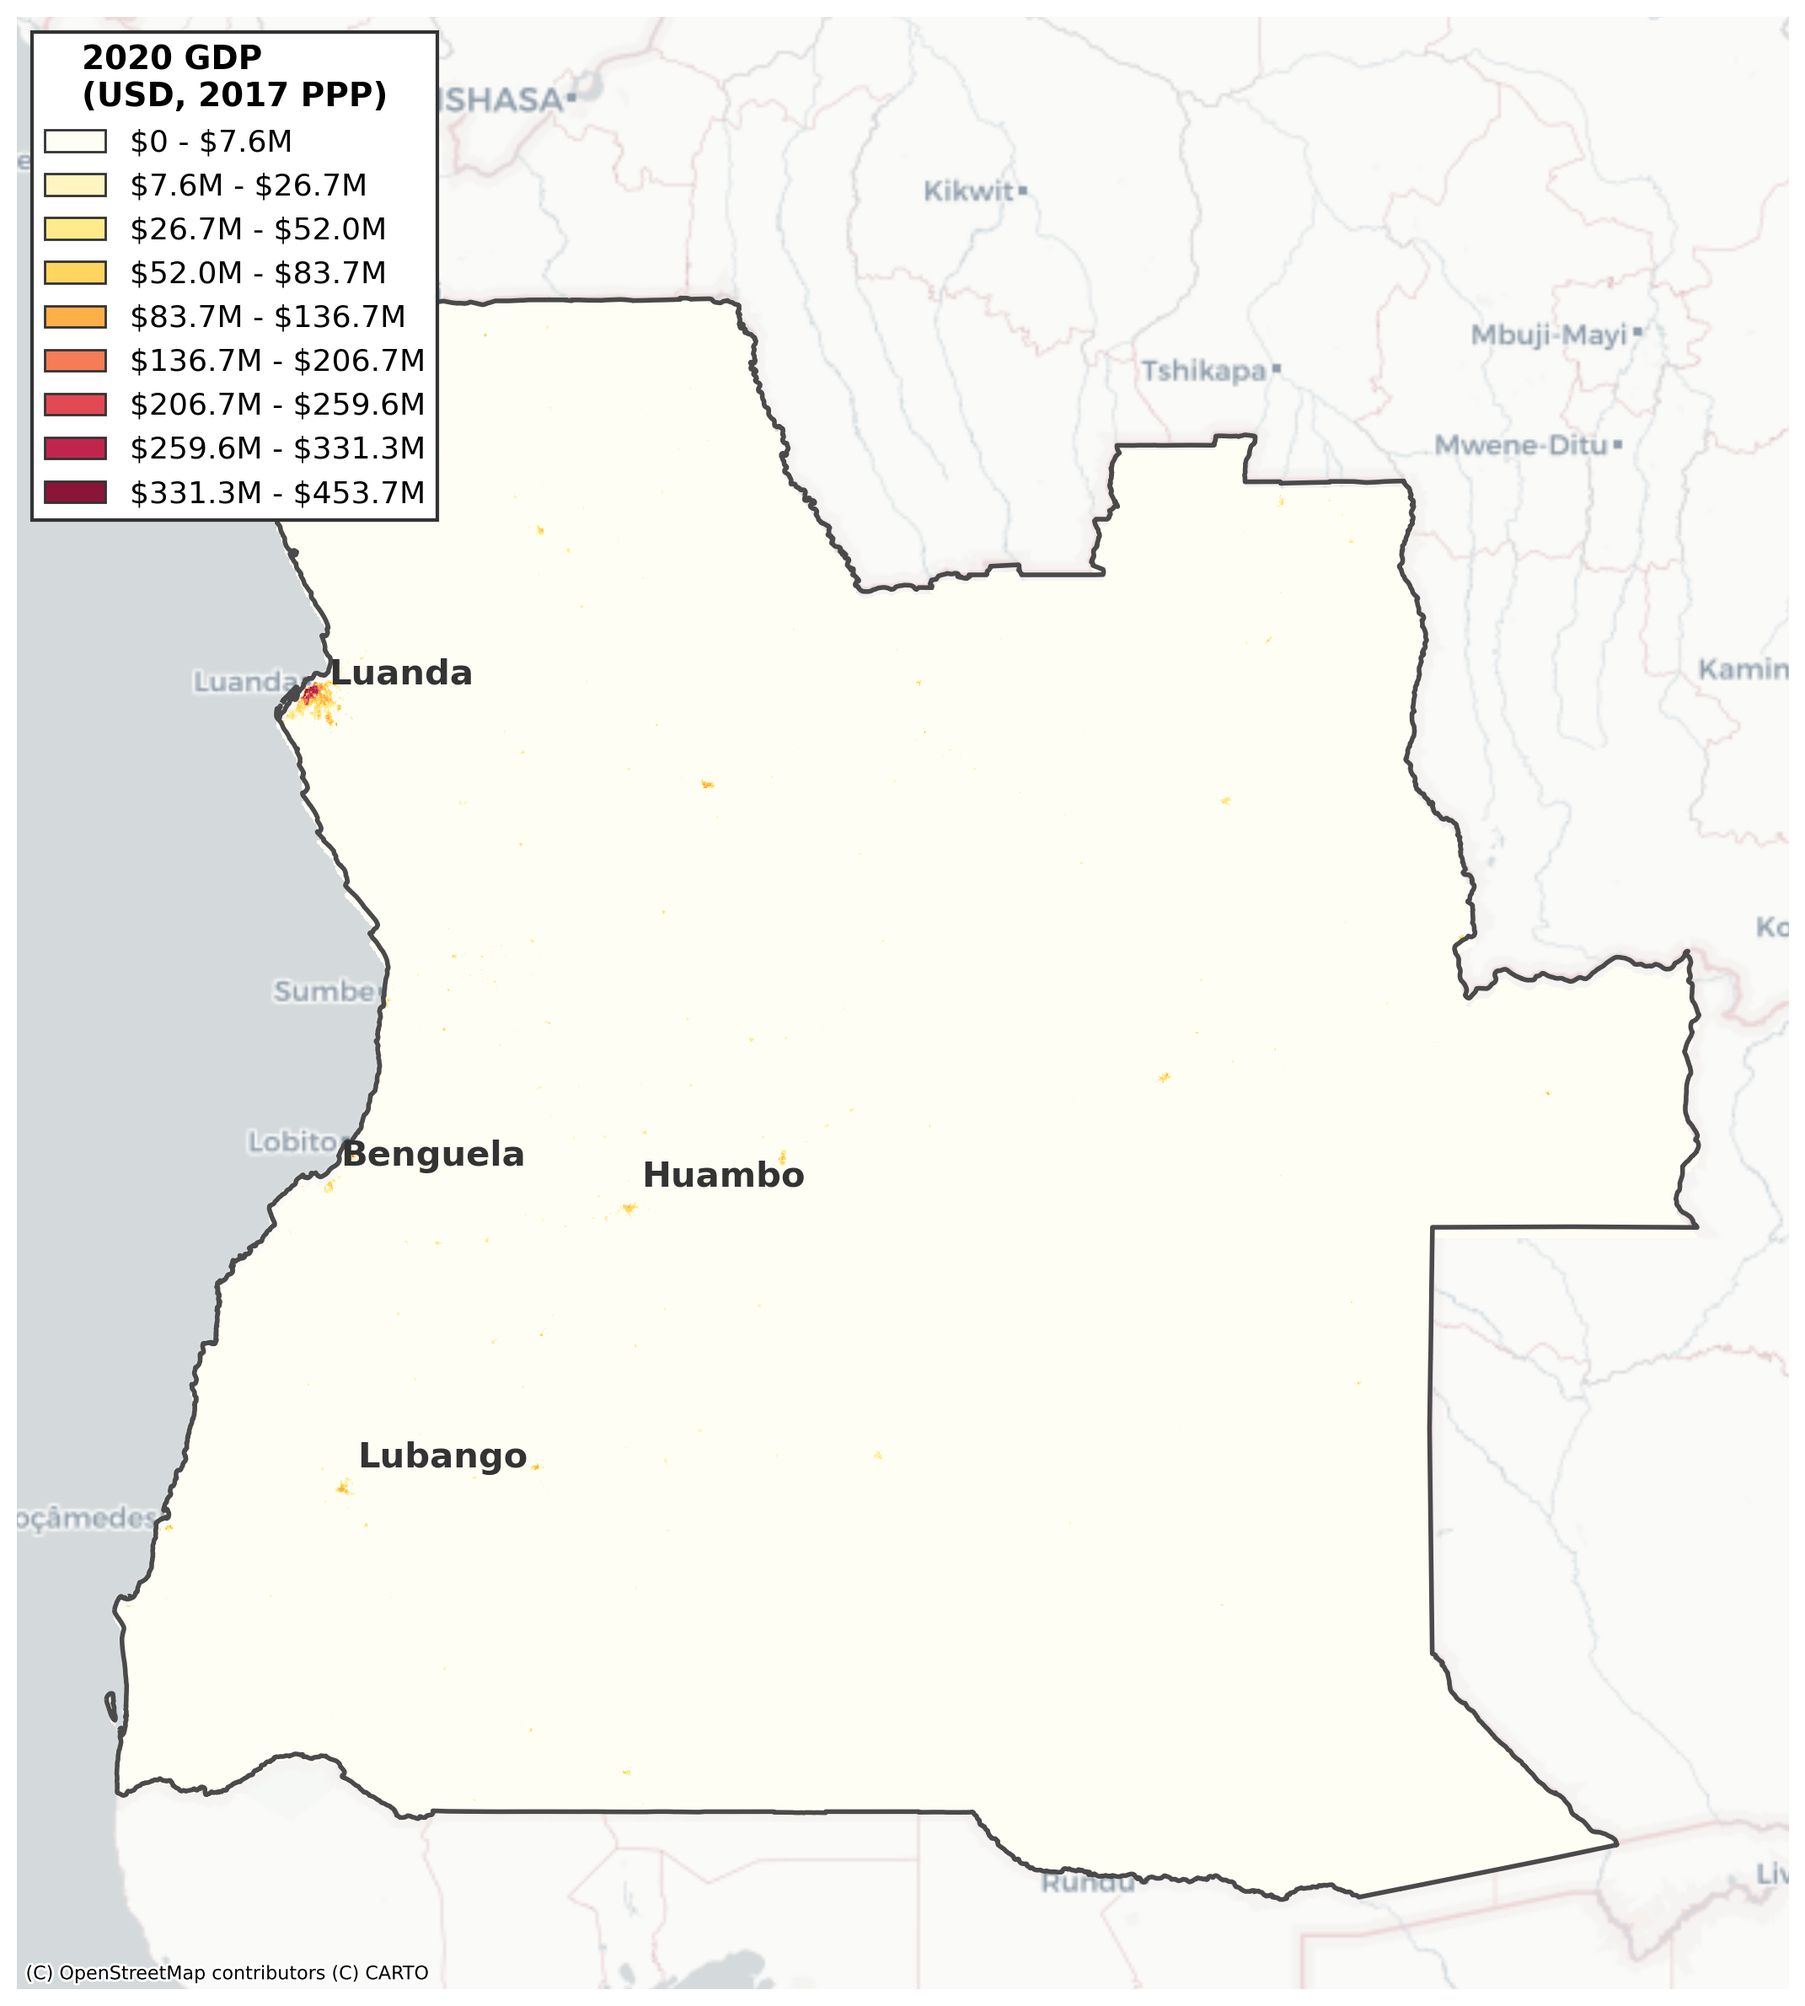
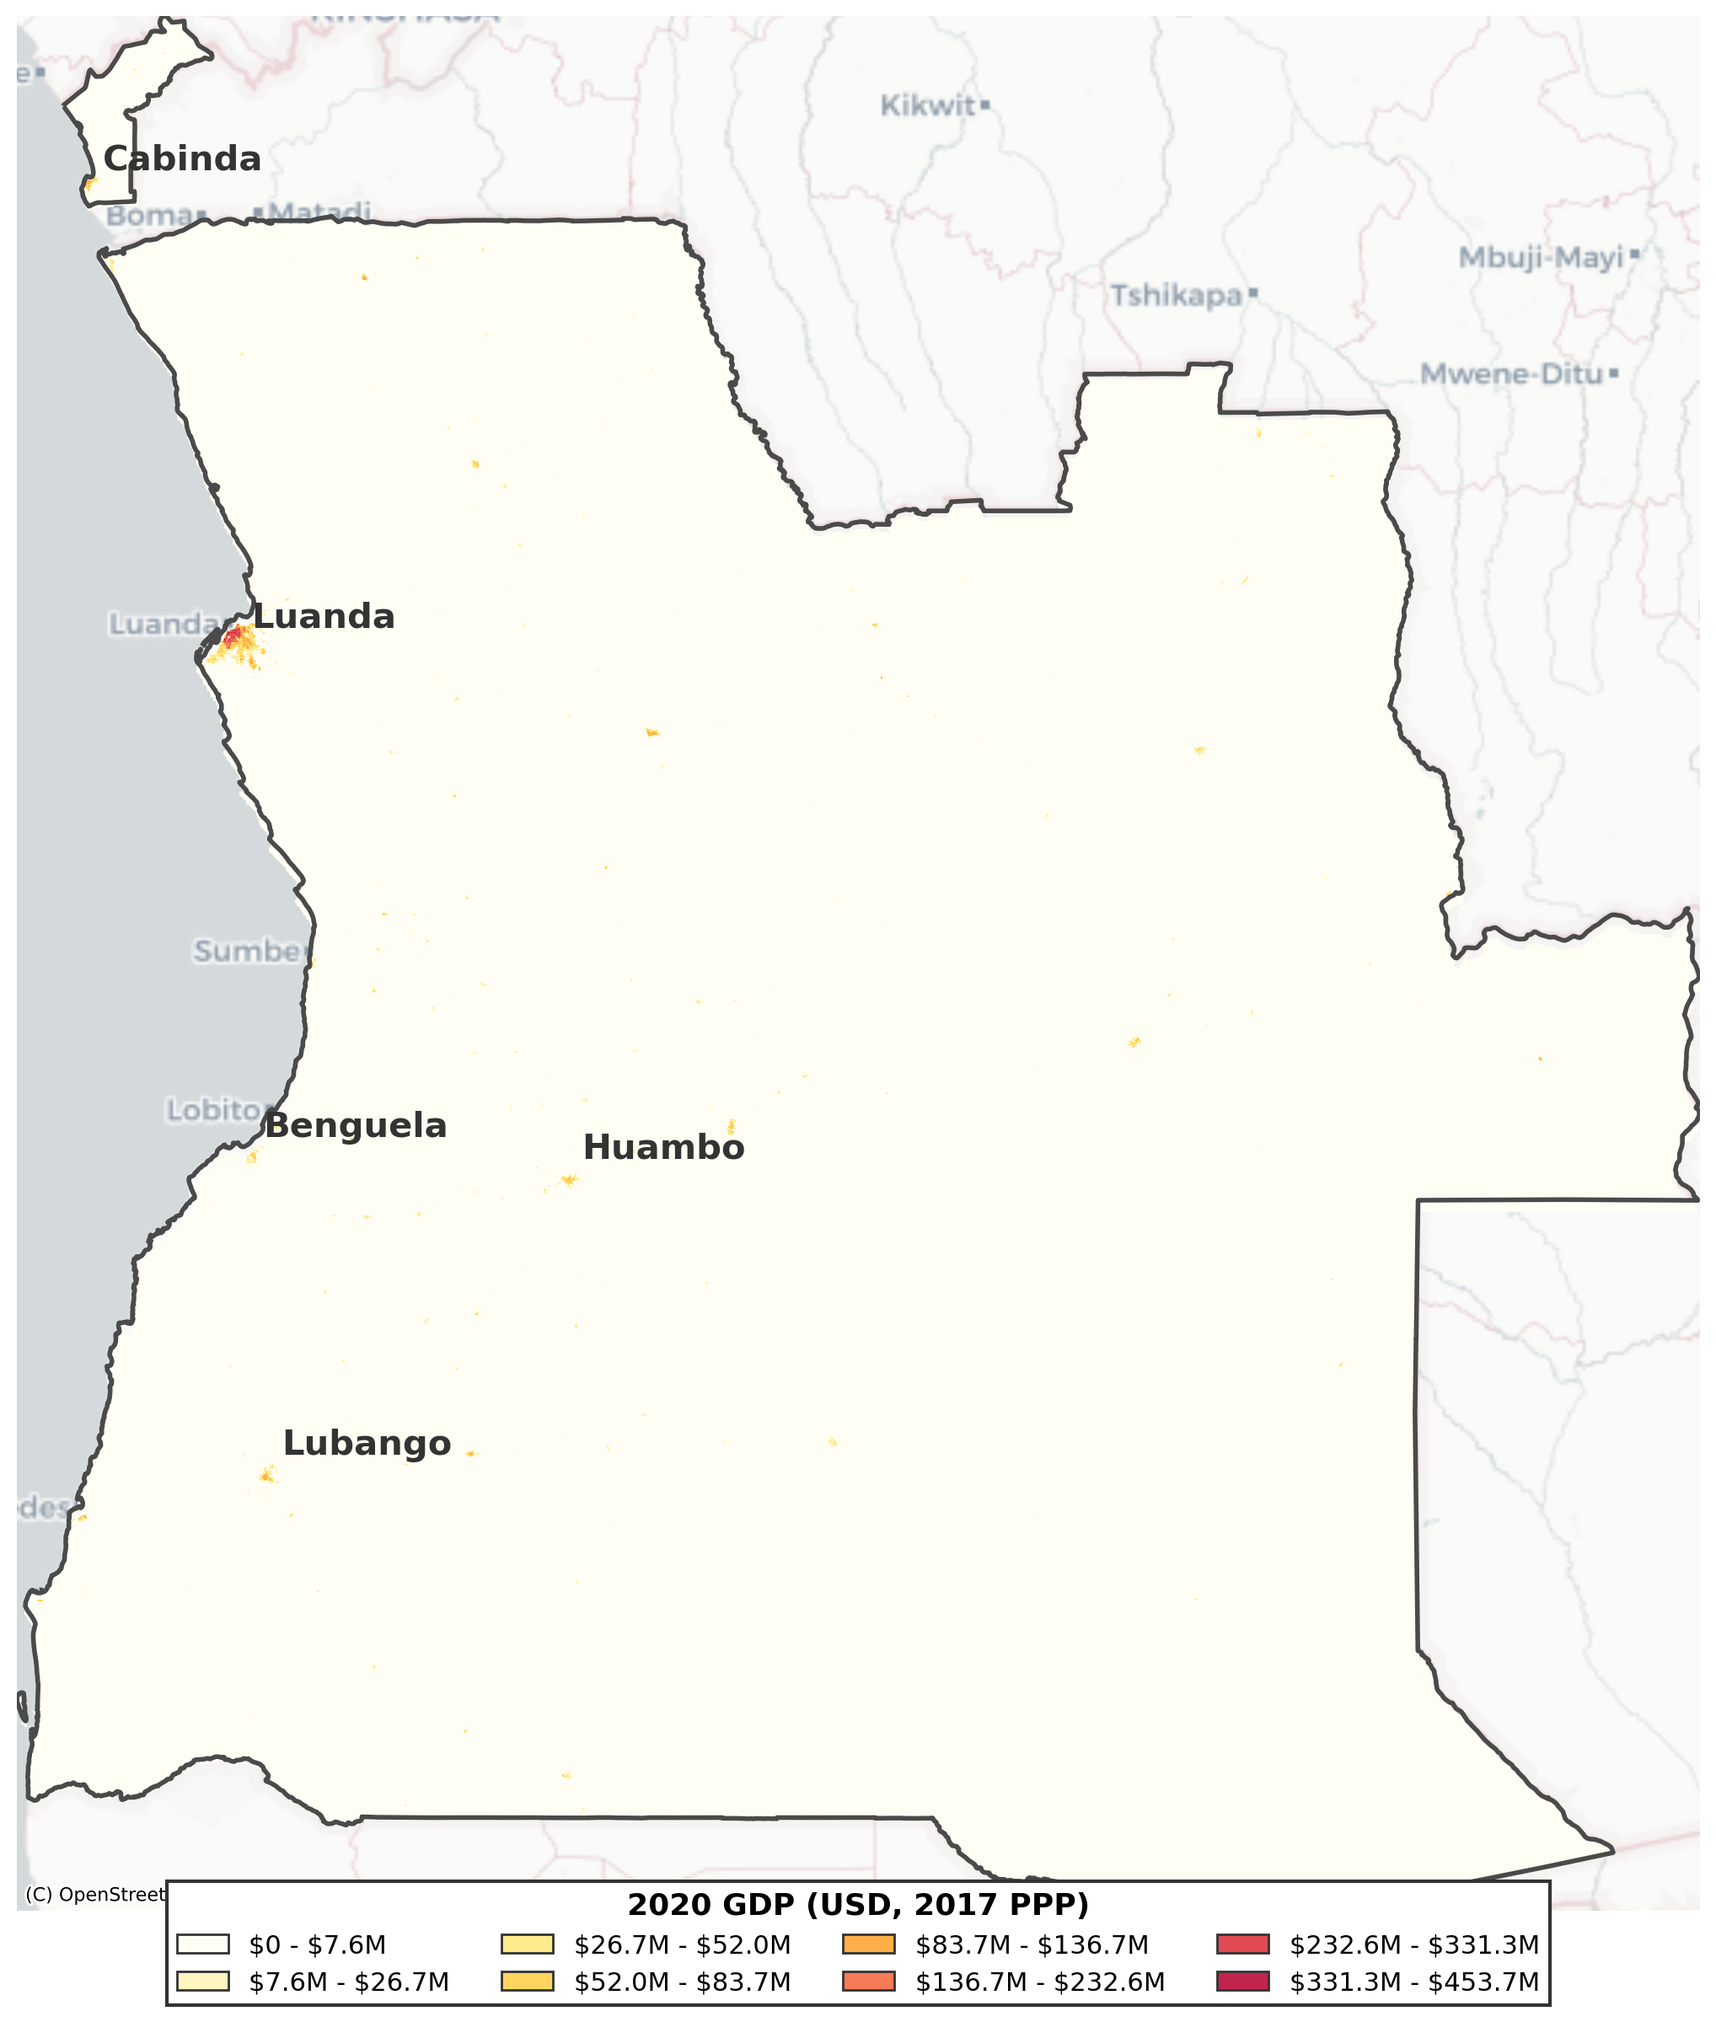
Update GDP and population raster images and improve legends
Added new 2020 GDP and population raster images for multiple African countries. Improved legend placement and formatting in visualization scripts, reduced number of bins from 9 to 8, and removed the expand_bounds function. Updated indicator note in urbanization_callbacks.py to clarify legend classification and interpretation guidance.

diff --git a/scripts/Process_Kumu_GDP.py b/scripts/Process_Kumu_GDP.py
@@ -197,26 +197,7 @@ def clip_raster_to_polygon(raster, polygon_geom, band_index):
     return band_data, out_transform
 
 
-def expand_bounds(minx, miny, maxx, maxy, buffer_pct=0.05):
-    """
-    Expand geographic bounds by a percentage buffer
-    
-    Args:
-        minx, miny, maxx, maxy: Original bounds
-        buffer_pct: Percentage to expand (default 0.05 = 5%)
-        
-    Returns:
-        Tuple of expanded (minx, miny, maxx, maxy)
-    """
-    width = maxx - minx
-    height = maxy - miny
-    buffer = max(width, height) * buffer_pct
-    return (
-        minx - buffer,
-        miny - buffer,
-        maxx + buffer,
-        maxy + buffer
-    )
+
 
 
 def add_basemap_to_axis(ax, crs='EPSG:3857', source=None, alpha=1.0, zoom='auto'):
@@ -279,8 +260,8 @@ def add_city_labels(ax, cities_gdf, name_column='agglosName', fontsize=15,
 
 
 def create_categorical_legend(ax, breaks, colors, value_formatter=None, 
-                             title='Value Range', loc='upper left', 
-                             fontsize=13, title_fontsize=14):
+                             title='Value Range', loc='lower center', 
+                             fontsize=13, title_fontsize=14, ncol=3, bbox_to_anchor=(0.5, -0.15)):
     """
     Create categorical legend with value ranges
     
@@ -290,9 +271,11 @@ def create_categorical_legend(ax, breaks, colors, value_formatter=None,
         colors: List of colors for each bin
         value_formatter: Function to format values (optional)
         title: Legend title
-        loc: Legend location (default 'upper left')
+        loc: Legend location (default 'lower center')
         fontsize: Font size for labels (default 13)
         title_fontsize: Font size for title (default 14)
+        ncol: Number of columns (default 3)
+        bbox_to_anchor: Position anchor for legend (default (0.5, -0.15))
     """
     from matplotlib.patches import Patch
     
@@ -329,7 +312,8 @@ def create_categorical_legend(ax, breaks, colors, value_formatter=None,
     
     legend = ax.legend(handles=legend_elements, loc=loc, fontsize=fontsize,
              title=title, title_fontproperties={'weight': 'bold', 'size': title_fontsize},
-             framealpha=1.0, facecolor='white', edgecolor='#333333', fancybox=False, shadow=False)
+             framealpha=1.0, facecolor='white', edgecolor='#333333', fancybox=False, shadow=False,
+             ncol=ncol, bbox_to_anchor=bbox_to_anchor, borderaxespad=0)
     
     # Explicitly set the legend frame to be fully opaque with no transparency
     frame = legend.get_frame()
@@ -423,7 +407,7 @@ def create_gdp_visualization(data, transform, country_geom, country_name, iso3, 
         return
     
     # Configuration
-    no_bins = 9
+    no_bins = 8
     
     # Get data statistics for all non-NaN values (including zeros)
     valid_data_mask = ~np.isnan(data)
@@ -448,9 +432,6 @@ def create_gdp_visualization(data, transform, country_geom, country_name, iso3, 
     geom_web = geom_gdf.to_crs(3857)
     minx, miny, maxx, maxy = geom_web.total_bounds
     
-    # Expand bounds to show neighboring countries
-    minx, miny, maxx, maxy = expand_bounds(minx, miny, maxx, maxy, buffer_pct=0.05)
-    
     # Set axis limits first (required for contextily)
     ax.set_xlim(minx, maxx)
     ax.set_ylim(miny, maxy)
@@ -461,7 +442,7 @@ def create_gdp_visualization(data, transform, country_geom, country_name, iso3, 
     
     # Create custom colormap for n_bins (discrete classification)
     colors = ['#FFFEF5', '#FFF5C0', '#FFEB8B', '#FFD560', '#FFAF48', 
-              '#F57C56', '#E24952', '#C1254E', '#8B1538']  # 9 colors for up to 9 bins
+              '#F57C56', '#E24952', '#C1254E', '#8B1538']  # 9 colors for up to 8 bins
     colors = colors[:no_bins]  # Use only as many colors as bins
     cmap = mcolors.ListedColormap(colors)
     cmap.set_bad(alpha=0)  # Transparent only for NaN (outside polygon)
@@ -490,16 +471,18 @@ def create_gdp_visualization(data, transform, country_geom, country_name, iso3, 
     # Styling
     ax.axis('off')
     
-    # Create categorical legend
+    # Create categorical legend (bottom outside, multiple columns)
     create_categorical_legend(
         ax, breaks, colors,
-        title='2020 GDP\n(USD, 2017 PPP)',
-        loc='upper left',
-        fontsize=13,
-        title_fontsize=14
+        title='2020 GDP (USD, 2017 PPP)',
+        loc='lower center',
+        fontsize=11,
+        title_fontsize=13,
+        ncol=4,
+        bbox_to_anchor=(0.5, -0.05)
     )
     
-    # Tight layout
+    # Tight layout with space for legend
     plt.tight_layout()
     
     # Save with explicit no-transparency settings
@@ -532,7 +515,7 @@ def create_population_visualization(data, transform, country_geom, country_name,
         return
     
     # Configuration
-    no_bins = 9
+    no_bins = 8
     
     # Get data statistics for all non-NaN values (including zeros)
     valid_data_mask = ~np.isnan(data)
@@ -557,9 +540,6 @@ def create_population_visualization(data, transform, country_geom, country_name,
     geom_web = geom_gdf.to_crs(3857)
     minx, miny, maxx, maxy = geom_web.total_bounds
     
-    # Expand bounds to show neighboring countries
-    minx, miny, maxx, maxy = expand_bounds(minx, miny, maxx, maxy, buffer_pct=0.05)
-    
     # Set axis limits first (required for contextily)
     ax.set_xlim(minx, maxx)
     ax.set_ylim(miny, maxy)
@@ -570,7 +550,7 @@ def create_population_visualization(data, transform, country_geom, country_name,
     
     # Create custom colormap for n_bins (discrete classification) - same as GDP
     colors = ['#FFFEF5', '#FFF5C0', '#FFEB8B', '#FFD560', '#FFAF48', 
-              '#F57C56', '#E24952', '#C1254E', '#8B1538']  # 9 colors for up to 9 bins
+              '#F57C56', '#E24952', '#C1254E', '#8B1538']  # 9 colors for up to 8 bins
     colors = colors[:no_bins]  # Use only as many colors as bins
     cmap = mcolors.ListedColormap(colors)
     cmap.set_bad(alpha=0)  # Transparent only for NaN (outside polygon)
@@ -618,17 +598,19 @@ def create_population_visualization(data, transform, country_geom, country_name,
         
         return f'{start_label} - {end_label}'
     
-    # Create categorical legend
+    # Create categorical legend (bottom outside, multiple columns)
     create_categorical_legend(
         ax, breaks, colors,
         value_formatter=population_formatter,
         title='2020 Population',
-        loc='upper left',
-        fontsize=13,
-        title_fontsize=14
+        loc='lower center',
+        fontsize=11,
+        title_fontsize=13,
+        ncol=4,
+        bbox_to_anchor=(0.5, -0.05)
     )
     
-    # Tight layout
+    # Tight layout with space for legend
     plt.tight_layout()
     
     # Save with explicit no-transparency settings

diff --git a/src/callbacks/urbanization_callbacks.py b/src/callbacks/urbanization_callbacks.py
@@ -447,7 +447,7 @@ def register_callbacks(app):
                 html.Div(id='population-economic-activity-container'),
                 # Indicator note
                 html.Div([
-                    html.P([html.B("Data Source: "), "Population data from WorldPop 2020, GDP data from Kummu et al. 2025 (", html.A("https://doi.org/10.1038/s41597-025-04487-x", href="https://doi.org/10.1038/s41597-025-04487-x", target="_blank"), ").", html.Br(), html.B("Note:"), " Spatial distribution of population and economic activity (GDP) at 1km resolution for the year 2020. These maps show the concentration of people and economic output across the country."], className="indicator-note"),
+                    html.P([html.B("Data Source: "), "Population data from WorldPop 2020, GDP data from Kummu et al. 2025 (", html.A("https://doi.org/10.1038/s41597-025-04487-x", href="https://doi.org/10.1038/s41597-025-04487-x", target="_blank"), ").", html.Br(), html.B("Note:"), " Spatial distribution of population and economic activity (GDP) at 1km resolution for the year 2020. These maps show the concentration of people and economic output across the country. The color classification follows the Jenks natural breaks algorithm, which optimizes groupings based on data distribution to enhance visual interpretation. While such visualizations are useful for illustrating spatial patterns, they can also be misleading if not interpreted carefully—for instance, differences in scale, color scheme, or data normalization can distort perceptions of density and magnitude. Comparisons between the population and GDP maps for 2020 are therefore more meaningful than the absolute magnitudes, as spatial distributions tend to evolve gradually over time."], className="indicator-note"),
                     html.Div([
                         create_methodological_note_button()
                     ], className="buttons-container")
